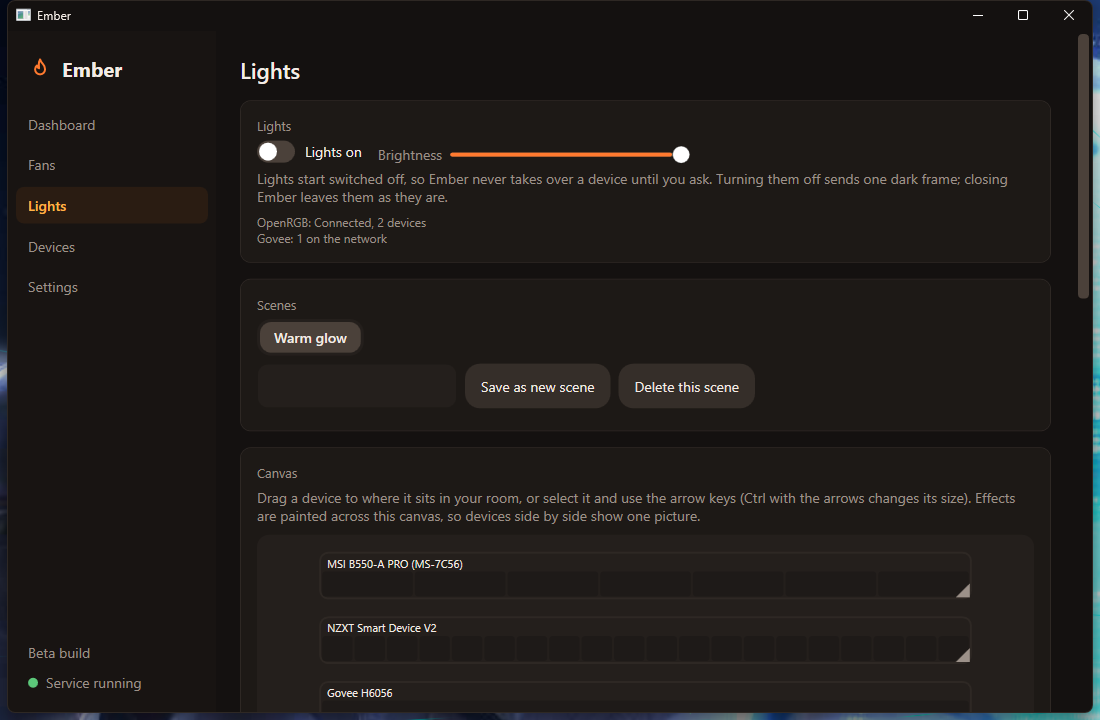
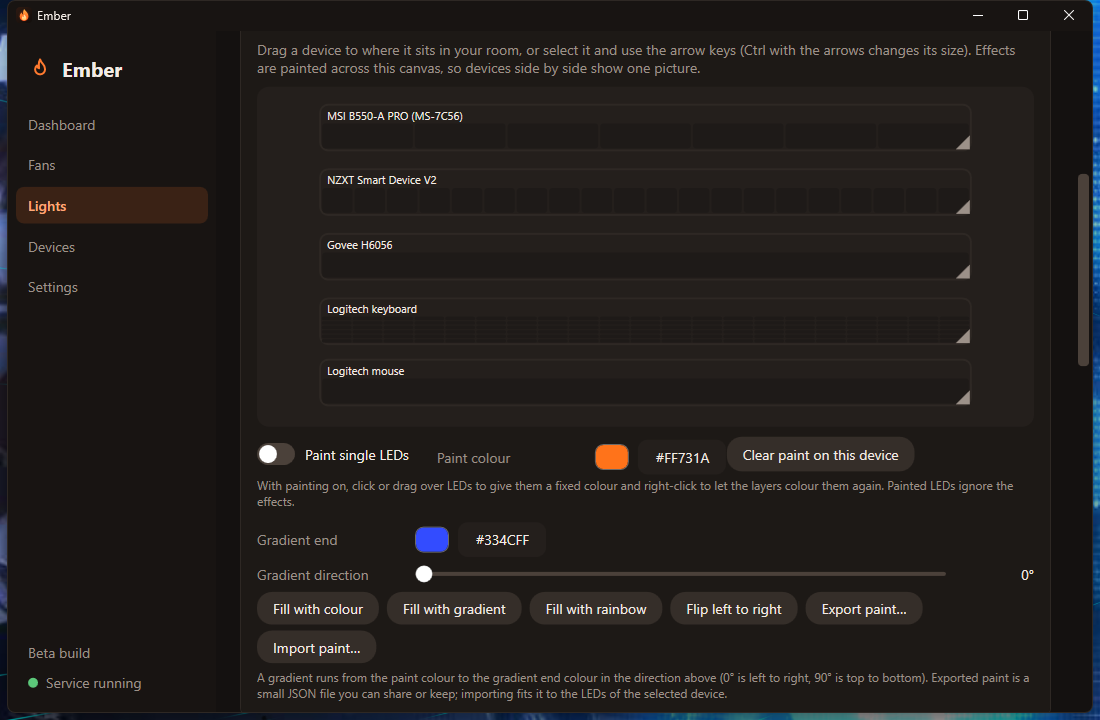
Refresh README screenshots for beta.4 and add the installer

diff --git a/README.md b/README.md
@@ -41,11 +41,14 @@
 
 <p align="center">
   <img src="docs/images/fans.png" alt="Fans page with modes and curve graph" width="48%">
-  <img src="docs/images/lights.png" alt="Lights page with devices, effects and scenes" width="48%">
+  <img src="docs/images/lights.png" alt="Lights page with the device canvas, per-LED painting and gradient tools" width="48%">
 </p>
 <p align="center">
-  <img src="docs/images/fan-headers.png" alt="Fan header testing and enabling" width="48%">
+  <img src="docs/images/fan-headers.png" alt="Devices page with every device and the fan header tests" width="48%">
   <img src="docs/images/settings.png" alt="Settings page" width="48%">
+</p>
+<p align="center">
+  <img src="docs/images/installer.png" alt="The Ember installer" width="48%">
 </p>
 
 ## Requirements
